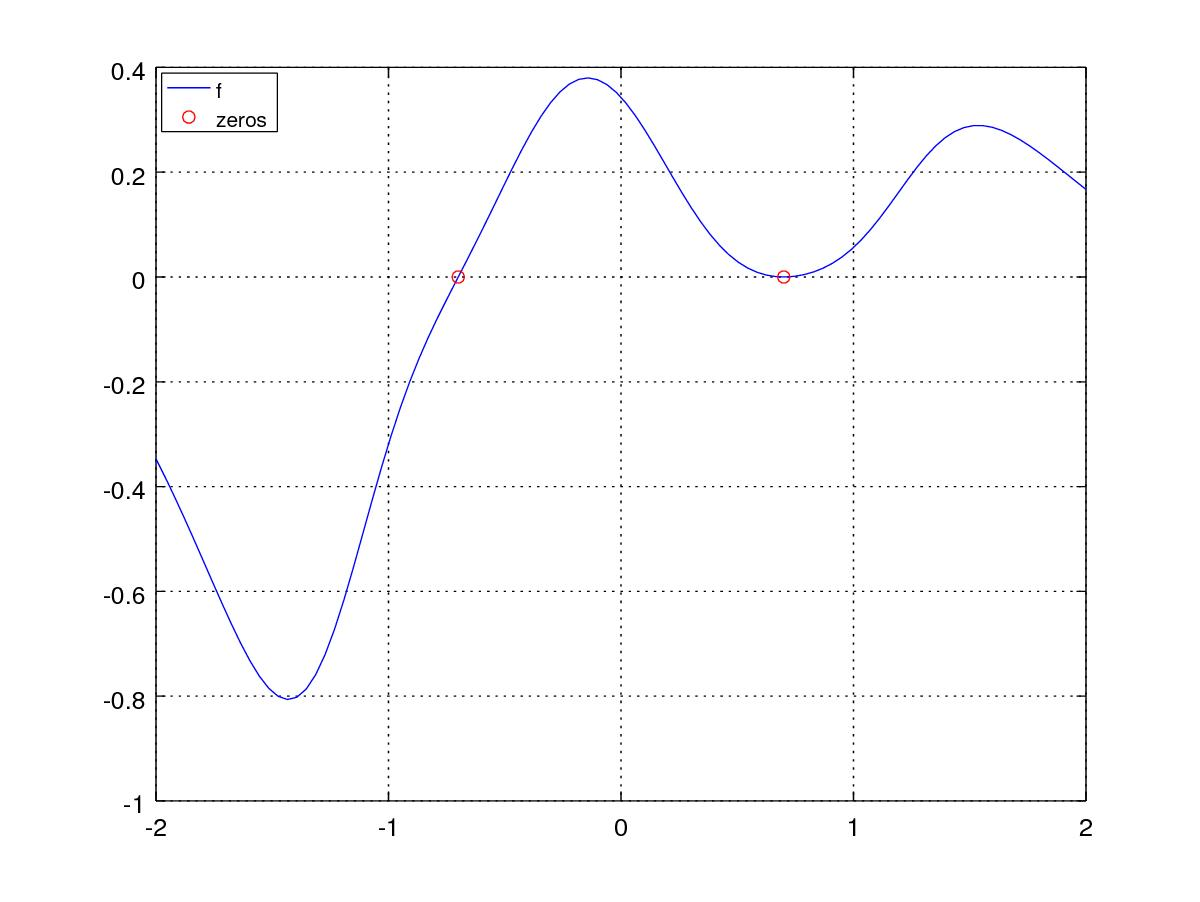
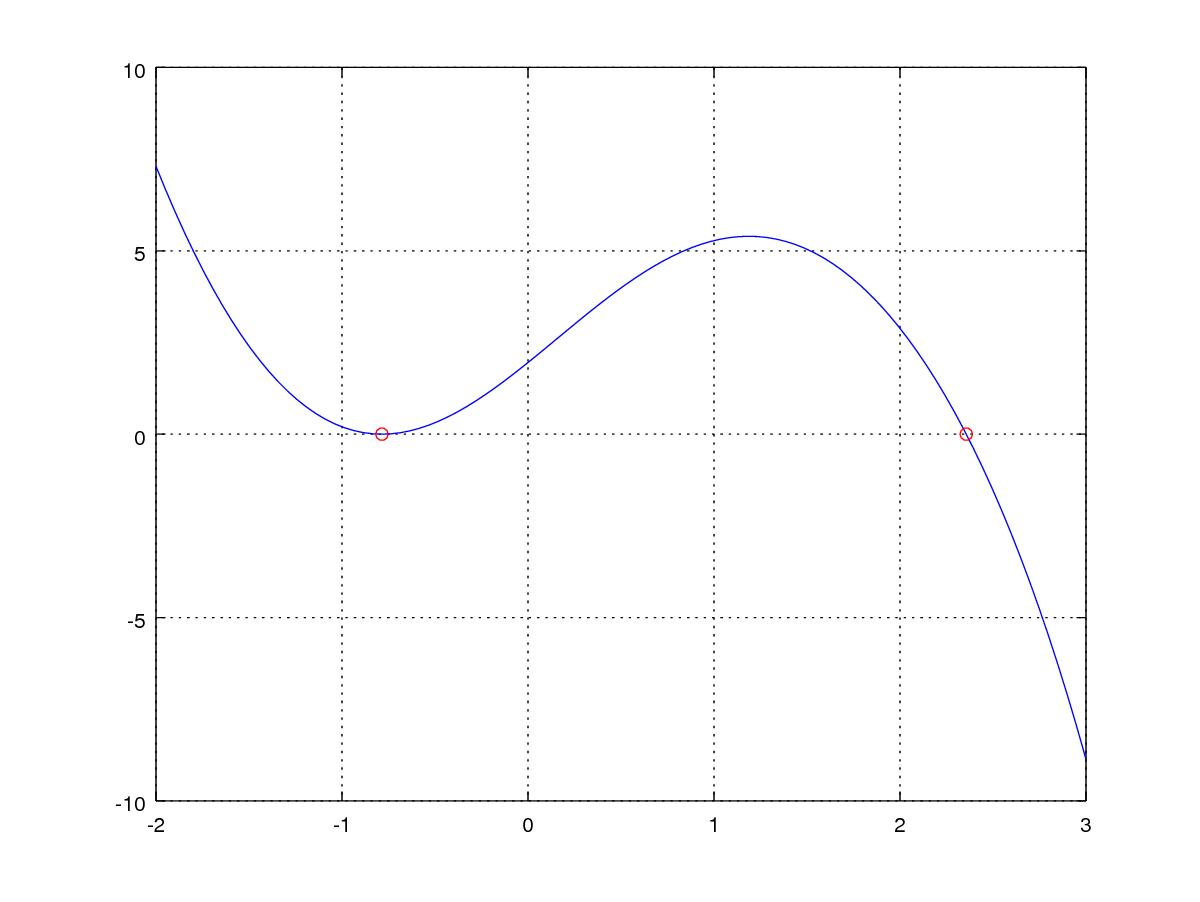
+:material sobre o método da falsa posição; *:mudanças substanciais com correções

diff --git a/src/MatematicaNumerica/cap_eq1d/dados/ex_bis_multpar/ex_bis_multpar.m b/src/MatematicaNumerica/cap_eq1d/dados/ex_bis_multpar/ex_bis_multpar.m
@@ -1,25 +1,21 @@
 pkg load symbolic
 syms x
-f = @(x) (2*x.^3-1.4*x.^2-0.98*x+0.686).*exp(-x.^2)-...
-         (x.^3-0.7*x.^2-0.49*x+0.343).*exp(-x.^4);
+f = @(x) sin(x+pi/4).^2-x.^3+pi*x.^2/4+5*pi^2*x/16+3*pi^3/64;
 fl = function_handle(diff(f(x)));
 
 TOL=1e-3;
-a=0.5;
-b=1.0;
-x=(a+b)/2;
-printf("%d %1.4E %1.4E %1.4E %d\n",...
-       1,a,b,x,sign(fl(a)*fl(x)));
-for k=2:10
+a=-1;
+b=0;
+for k=1:15
+  x=(a+b)/2;
+  printf("%d %1.4E %1.4E %1.4E %d\n",...
+       k,a,b,x,sign(fl(a))*sign(fl(x)));
   if ((fl(x)==0) | ((b-a)/2<TOL))
     disp('convergiu')
     break;
-  elseif (sign(fl(a)*fl(x))<0)
+  elseif (sign(fl(a))*sign(fl(x))==-1)
     b=x;
   else
     a=x;
   end
-  x=(a+b)/2;
-  printf("%d %1.4E %1.4E %1.4E %d\n",...
-         k,a,b,x,sign(fl(a)*fl(x)));
 endfor

diff --git a/src/MatematicaNumerica/cap_eq1d/dados/ex_bis_exec/ex_bis_exec.m b/src/MatematicaNumerica/cap_eq1d/dados/ex_bis_exec/ex_bis_exec.m
@@ -1,15 +1,14 @@
-f = @(x) (2*x.^3-1.4*x.^2-0.98*x+0.686).*exp(-x.^2)-...
-         (x.^3-0.7*x.^2-0.49*x+0.343).*exp(-x.^4);
+f = @(x) sin(x+pi/4).^2-x.^3+pi*x.^2/4+5*pi^2*x/16+3*pi^3/64;
 
-a=-1; b=1;
+a=2; b=3;
 x=(a+b)/2
 printf("%d %1.4E %1.4E %1.4E %d\n",...
-       1,a,b,x,sign(f(a)*f(x)))
+       1,a,b,x,sign(f(a))*sign(f(x)))
 for k=2:10
 
   if (f(x) == 0)
     disp("sol. encontrada")
-  elseif (sign(f(a)*f(x)) == -1)
+  elseif (sign(f(a))*sign(f(x)) == -1)
     b=x;
   else
     a=x;
@@ -17,6 +16,6 @@ for k=2:10
   
   x=(a+b)/2;
   printf("%d %1.4E %1.4E %1.4E %d\n",...
-         k,a,b,x,sign(f(a)*f(x)))
+         k,a,b,x,sign(f(a))*sign(f(x)))
   
 end

diff --git a/src/MatematicaNumerica/cap_eq1d/dados/ex_bis_multpar/fig_bis_multpar.m b/src/MatematicaNumerica/cap_eq1d/dados/ex_bis_multpar/fig_bis_multpar.m
@@ -1,12 +1,11 @@
 pkg load symbolic
 syms x
-f = (2*x.^3-1.4*x.^2-0.98*x+0.686).*exp(-x.^2)-...
-         (x.^3-0.7*x.^2-0.49*x+0.343).*exp(-x.^4);
-         
-fl = matlabFunction(diff(f))
+f = @(x) sin(x+pi/4).^2-x.^3+pi*x.^2/4+5*pi^2*x/16+3*pi^3/64;
+fl = function_handle(diff(f(x)));
 
-xx=linspace(0.5,1);
-plot(xx,fl(xx),'b-',...
-     0.7,fl(0.7),'ro');grid
-legend("fl","zero","location","northwest")
+xx=linspace(-2,3);
+plot(xx,f(xx),'b-',...
+     xx,fl(xx),'r-',...
+     -pi/4,fl(-pi/4),'ro');grid
+legend("f","f'","zero","location","northeast")
 set(gca,"fontsize",12)

diff --git a/src/MatematicaNumerica/cap_eq1d/dados/ex_bis_intro/fig_bis_intro.m b/src/MatematicaNumerica/cap_eq1d/dados/ex_bis_intro/fig_bis_intro.m
@@ -1,10 +1,9 @@
-f = @(x) (2*x.^3-1.4*x.^2-0.98*x+0.686).*exp(-x.^2)-...
-         (x.^3-0.7*x.^2-0.49*x+0.343).*exp(-x.^4);
-xx=linspace(-2,2);
+f = @(x) sin(x+pi/4).^2-x.^3+pi*x.^2/4+5*pi^2*x/16+3*pi^3/64;
+xx=linspace(-2,3);
 plot(xx,f(xx));grid
-hold onx
-xx=[-0.7 0.7];
+hold on
+xx=[-pi/4 3*pi/4];
 plot(xx,f(xx),'ro');
-legend("f","zeros","location","northwest")
+legend("f","zeros","location","northest")
 set(gca,"fontsize",12)
 hold off

diff --git a/src/MatematicaNumerica/cap_eq1d/dados/exer_falsapos_multpar/exer_falsapos_multpar.m b/src/MatematicaNumerica/cap_eq1d/dados/exer_falsapos_multpar/exer_falsapos_multpar.m
@@ -1,0 +1,22 @@
+pkg load symbolic
+syms x
+f = @(x) (-x.^2+1.154*x-0.332929).*cos(x)+x.^2-1.154*x+0.332929;
+fl = function_handle(diff(f(x)))
+
+a=0.55;
+b=0.65;
+x0=0;
+for k=1:30
+  x = a - (b-a)/(fl(b)-fl(a))*fl(a);
+  printf("%d %1.5E\n",k,x)
+  if ((fl(x)==0) | (abs(x-x0)<1e-4))
+    disp('aprox. encontrada')
+    break;
+  elseif (fl(a)*fl(x)>0)
+    a=x;
+  else
+    b=x;
+  end
+  x0=x;
+endfor
+printf("%1.6E\n",x)

diff --git a/src/MatematicaNumerica/cap_eq1d/dados/exer_bis_multpar/exer_bis_multpar.m b/src/MatematicaNumerica/cap_eq1d/dados/exer_bis_multpar/exer_bis_multpar.m
@@ -1,15 +1,14 @@
 pkg load symbolic
 syms x
-f = (-x^2+1.154*x-0.332929)*cos(x)+x^2-1.154*x+0.332929;
-fx = diff(f)
-fl = function_handle(fx)
+f = @(x) (-x^2+1.154*x-0.332929)*cos(x)+x^2-1.154*x+0.332929;
+fl = function_handle(diff(f(x)))
 
 a=0.55;
 b=0.65;
-x=(a+b)/2;
-x0=x;
+x0=0;
 
 for k=2:30
+  x = (a+b)/2;
   if (fl(x)==0)
     disp('sol. encontrada')
     break;

diff --git a/src/MatematicaNumerica/cap_eq1d/dados/ex_falsapos_exec/ex_falsapos_exec.m b/src/MatematicaNumerica/cap_eq1d/dados/ex_falsapos_exec/ex_falsapos_exec.m
@@ -1,0 +1,18 @@
+f = @(x) sin(x+pi/4).^2-x.^3+pi*x.^2/4+5*pi^2*x/16+3*pi^3/64;
+
+TOL=1e-3;
+a=2; b=3;
+for k=1:10
+  x=a-(b-a)/(f(b)-f(a))*f(a);
+  printf("%d %1.4E %1.4E %1.4E %d\n",...
+       k,a,b,x,sign(f(a))*sign(f(x)))
+
+  if (f(x) == 0)
+    disp("convergiu")
+    break;
+  elseif (sign(f(a))*sign(f(x)) == -1)
+    b=x;
+  else
+    a=x;
+  end  
+end

diff --git a/src/MatematicaNumerica/cap_eq1d/dados/exer_falsapos_1/exer_falsapos_1.m b/src/MatematicaNumerica/cap_eq1d/dados/exer_falsapos_1/exer_falsapos_1.m
@@ -1,0 +1,16 @@
+f = @(x) x.^3 .* sin(x) - cos(x);
+
+a=0.5;
+b=1;
+for k=1:5
+  x = a - (b-a)/(f(b)-f(a))*f(a)
+  if (f(x)==0)
+    disp('sol. encontrada')
+    break;
+  elseif (f(a)*f(x)>0)
+    a=x;
+  else
+    b=x;
+  end
+endfor
+printf("%1.6E\n",x)

diff --git a/src/MatematicaNumerica/cap_eq1d/dados/ex_bis_intro/ex_bis_intro.m b/src/MatematicaNumerica/cap_eq1d/dados/ex_bis_intro/ex_bis_intro.m
@@ -1,4 +1,3 @@
-f = @(x) (2*x.^3-1.4*x.^2-0.98*x+0.686).*exp(-x.^2)-...
-         (x.^3-0.7*x.^2-0.49*x+0.343).*exp(-x.^4);
-xx=linspace(-2,2);
+f = @(x) sin(x+pi/4).^2-x.^3+pi*x.^2/4+5*pi^2*x/16+3*pi^3/64;
+xx=linspace(-2,3);
 plot(xx,f(xx));grid
